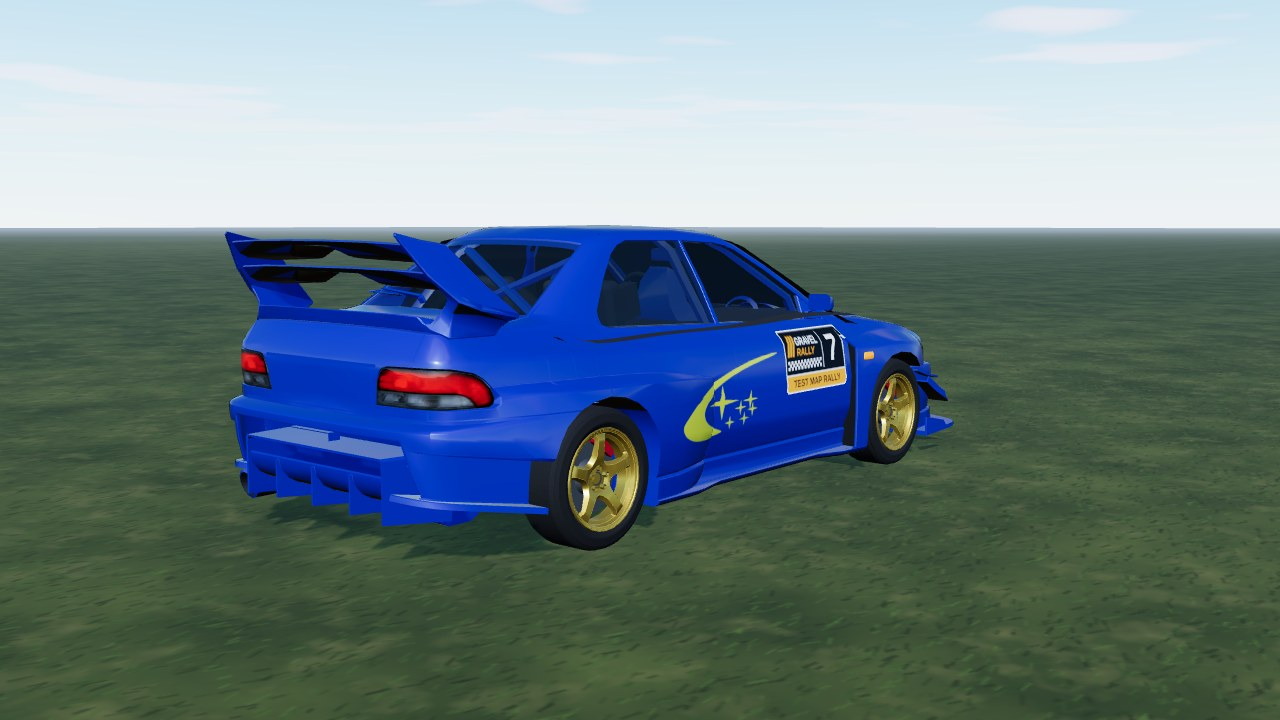
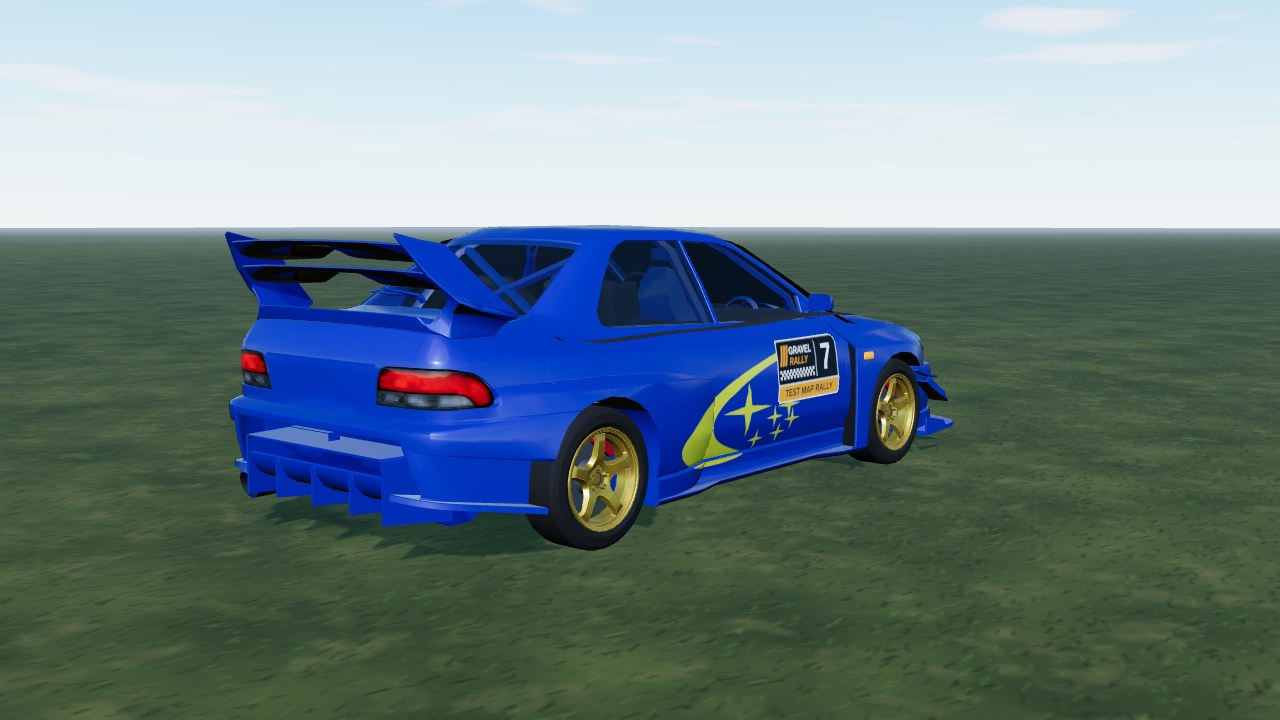
22B: bigger side graphic, plate moved
- graphic spans 10 cm above the lower edge to 10 cm below the windows, tail over the rear arch, pointing forward on both sides
- rally plate 4 cm down, 8 cm back
- badge decal: find the paint surface by sampling under the plate (big door triangles have no vertex inside it)
- retake screenshots

Changed region(s): [[0.5312, 0.4278, 0.6875, 0.6722]]

diff --git a/src/games/rally/cars/subie-22b/livery.ts b/src/games/rally/cars/subie-22b/livery.ts
@@ -7,16 +7,21 @@ import source from './model.source.json';
  * Runtime paint for the Subaru WRX STI 22B BODY (converted GLB, atlas layout in model.source.json). Glass, lamps, mirrors and
  * trim are separate parts with their own materials, so only body panels get paint: blue base, dark undercoat, and the side
  * graphic - a crescent swoosh with a cluster of four-point stars, redrawn as shapes after the owner's reference picture
- * (no lettering). It is drawn the right way round on both sides (side charts are viewer-oriented, see atlas-painter.ts).
+ * (no lettering), always pointing forward.
  */
 const A = source.atlas;
 const { K, B, CH, Painter } = atlasKit(A);
 
 const YELLOW = '#e8f03a';
-/** Graphic centre on the body side (m): door / rear door, below the belt, behind the door number plate. */
-const AT = { z: -0.5, y: 0.56 };
-/** Metres per reference pixel (the reference crescent is 254 px wide). */
-const PX = 0.0036;
+/** Vertical extent on the body side (m): 10 cm above the body's lower edge up to 10 cm below the window sills. */
+const Y_BOTTOM = 0.23;
+const Y_TOP = 0.8;
+/** Reference picture rows spanned by the graphic (crescent tip to lower end). */
+const REF_Y = [121, 222];
+const PX = (Y_TOP - Y_BOTTOM) / (REF_Y[1] - REF_Y[0]);
+/** The crescent's lower-left end ("tail") sits over the rear wheel arch (z, m); the graphic grows forward from there. */
+const TAIL_Z = -0.957;
+const AT_Z = TAIL_Z + (295 - 168) * PX;
 
 /** Reference picture coordinates (px, y down): the crescent outline, sweeping from the lower end round the left bulge to the upper tip. */
 const CRESCENT: Pt[] = [
@@ -87,13 +92,14 @@ function star(cx: number, cy: number, rh: number, rv: number): Pt[] {
   return pts;
 }
 
-/** Reference px -> body side (z, y); `flip` for the left chart, where the front is on the viewer's left. */
-const place =
-  (flip: boolean) =>
-  ([x, y]: Pt): Pt => [
-    AT.z + (flip ? -1 : 1) * (x - 295) * PX,
-    AT.y - (y - 172) * PX,
-  ];
+/**
+ * Reference px -> body side (z, y). The same z on both sides: the graphic always points forward (stars towards the nose),
+ * so it is mirrored on one side - the side charts are viewer-oriented, the painter flips z for the left one itself.
+ */
+const at = ([x, y]: Pt): Pt => [
+  AT_Z + (x - 295) * PX,
+  Y_BOTTOM + (REF_Y[1] - y) * PX,
+];
 
 function paint(ctx: CanvasRenderingContext2D, info: LiveryInfo): void {
   ctx.fillStyle = info.base;
@@ -104,12 +110,9 @@ function paint(ctx: CanvasRenderingContext2D, info: LiveryInfo): void {
   ctx.fillRect(bx * K, by * K, (B.z[1] - B.z[0]) * K, (B.x[1] - B.x[0]) * K);
 
   const p = new Painter(ctx);
-  for (const side of ['left', 'right'] as const) {
-    const at = place(side === 'left');
-    p.side(smooth(CRESCENT).map(at), YELLOW, side);
-    for (const [cx, cy, rh, rv] of STARS)
-      p.side(star(cx, cy, rh, rv).map(at), YELLOW, side);
-  }
+  p.side(smooth(CRESCENT).map(at), YELLOW);
+  for (const [cx, cy, rh, rv] of STARS)
+    p.side(star(cx, cy, rh, rv).map(at), YELLOW);
 }
 
 export const subie22bLivery: CarAtlas = {

diff --git a/src/games/rally/cars/shared/rally-badge.ts b/src/games/rally/cars/shared/rally-badge.ts
@@ -226,6 +226,31 @@ export interface BadgeTarget {
   matrix: Matrix4;
 }
 
+/** Plate sample points (fractions of its size from the centre). */
+const PLATE_SAMPLES = [
+  [0, 0],
+  [-0.4, -0.4],
+  [0.4, -0.4],
+  [-0.4, 0.4],
+  [0.4, 0.4],
+] as const;
+
+/** x of triangle (a, b, c) at (z, y) if the triangle covers that point seen from the side, else undefined. */
+function surfaceX(
+  a: Vector3,
+  b: Vector3,
+  c: Vector3,
+  z: number,
+  y: number,
+): number | undefined {
+  const d = (b.z - a.z) * (c.y - a.y) - (c.z - a.z) * (b.y - a.y);
+  if (Math.abs(d) < 1e-9) return undefined;
+  const u = ((z - a.z) * (c.y - a.y) - (c.z - a.z) * (y - a.y)) / d;
+  const v = ((b.z - a.z) * (y - a.y) - (z - a.z) * (b.y - a.y)) / d;
+  if (u < 0 || v < 0 || u + v > 1) return undefined;
+  return a.x + (b.x - a.x) * u + (c.x - a.x) * v;
+}
+
 /** How far the plate floats above the paint (m). */
 const LIFT = 0.004;
 
@@ -274,6 +299,11 @@ export function buildBadgeGeometry(
         continue;
       n.crossVectors(e1.subVectors(b, a), e2.subVectors(c, a)).normalize();
       if (n.x * side < 0.02) continue;
+      // Big skin triangles can cover the plate with no vertex under it: sample the surface at the plate's corners / centre.
+      for (const [dz, dy] of PLATE_SAMPLES) {
+        const x = surfaceX(a, b, c, z + dz * width, y + dy * height);
+        if (x !== undefined) surfX = Math.max(surfX, x * side);
+      }
       for (const [v, k] of [
         [a, i],
         [b, i + 1],

diff --git a/src/games/rally/cars/subie-22b/subie-22b.ts b/src/games/rally/cars/subie-22b/subie-22b.ts
@@ -204,7 +204,7 @@ export const subie22b: CarDef = {
     // The source model has no cockpit: seats, dash, wheel and cage are the shared procedural ones, seen through tinted windows.
     glass: { color: 0x2a3a46, opacity: 0.4 },
     livery: 'rally1',
-    doorBadge: { z: 0.3, y: 0.68 },
+    doorBadge: { z: 0.22, y: 0.64 },
     gltf: {
       file: 'subie_22b.glb',
       credit:
